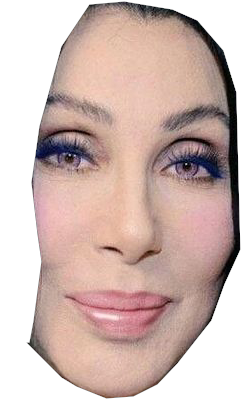
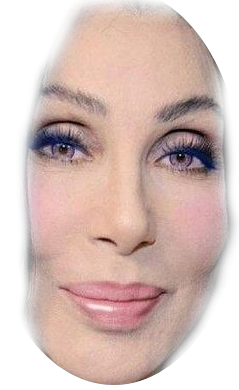
add more cher images

diff --git a/src/App.css b/src/App.css
@@ -39,15 +39,15 @@
   position: absolute;
   /* box-shadow: inset 0 0 0 3px #149df2; */
   /* background-color: black; */
-  /* background-image: url('../Logo/look.png'); */
-  background-image: url('./media/cher/1.png');
-  background-size: cover;
+  /* background-image: url('./media/cher/1.png'); */
+  background-repeat: no-repeat;
+  background-size: contain;
   background-position: center;
-  display: -ms-flexbox;
-  display: flex;
-  -ms-flex-wrap: wrap;
-  flex-wrap: wrap;
-  -ms-flex-pack: center;
-  justify-content: center;
+  /* display: -ms-flexbox; */
+  /* display: flex; */
+  /* -ms-flex-wrap: wrap; */
+  /* flex-wrap: wrap; */
+  /* -ms-flex-pack: center; */
+  /* justify-content: center; */
   cursor: pointer;
 }

diff --git a/src/Components/cher.js b/src/Components/cher.js
@@ -1,5 +1,7 @@
 import cher1 from '../media/cher/1.png'
 import cher2 from '../media/cher/2.png'
 import cher3 from '../media/cher/3.png'
+import cher4 from '../media/cher/4.png'
+import cher5 from '../media/cher/5.png'
 
-export const cher = [cher1, cher2, cher3]
+export const cher = [cher1, cher2, cher3, cher4, cher5]
